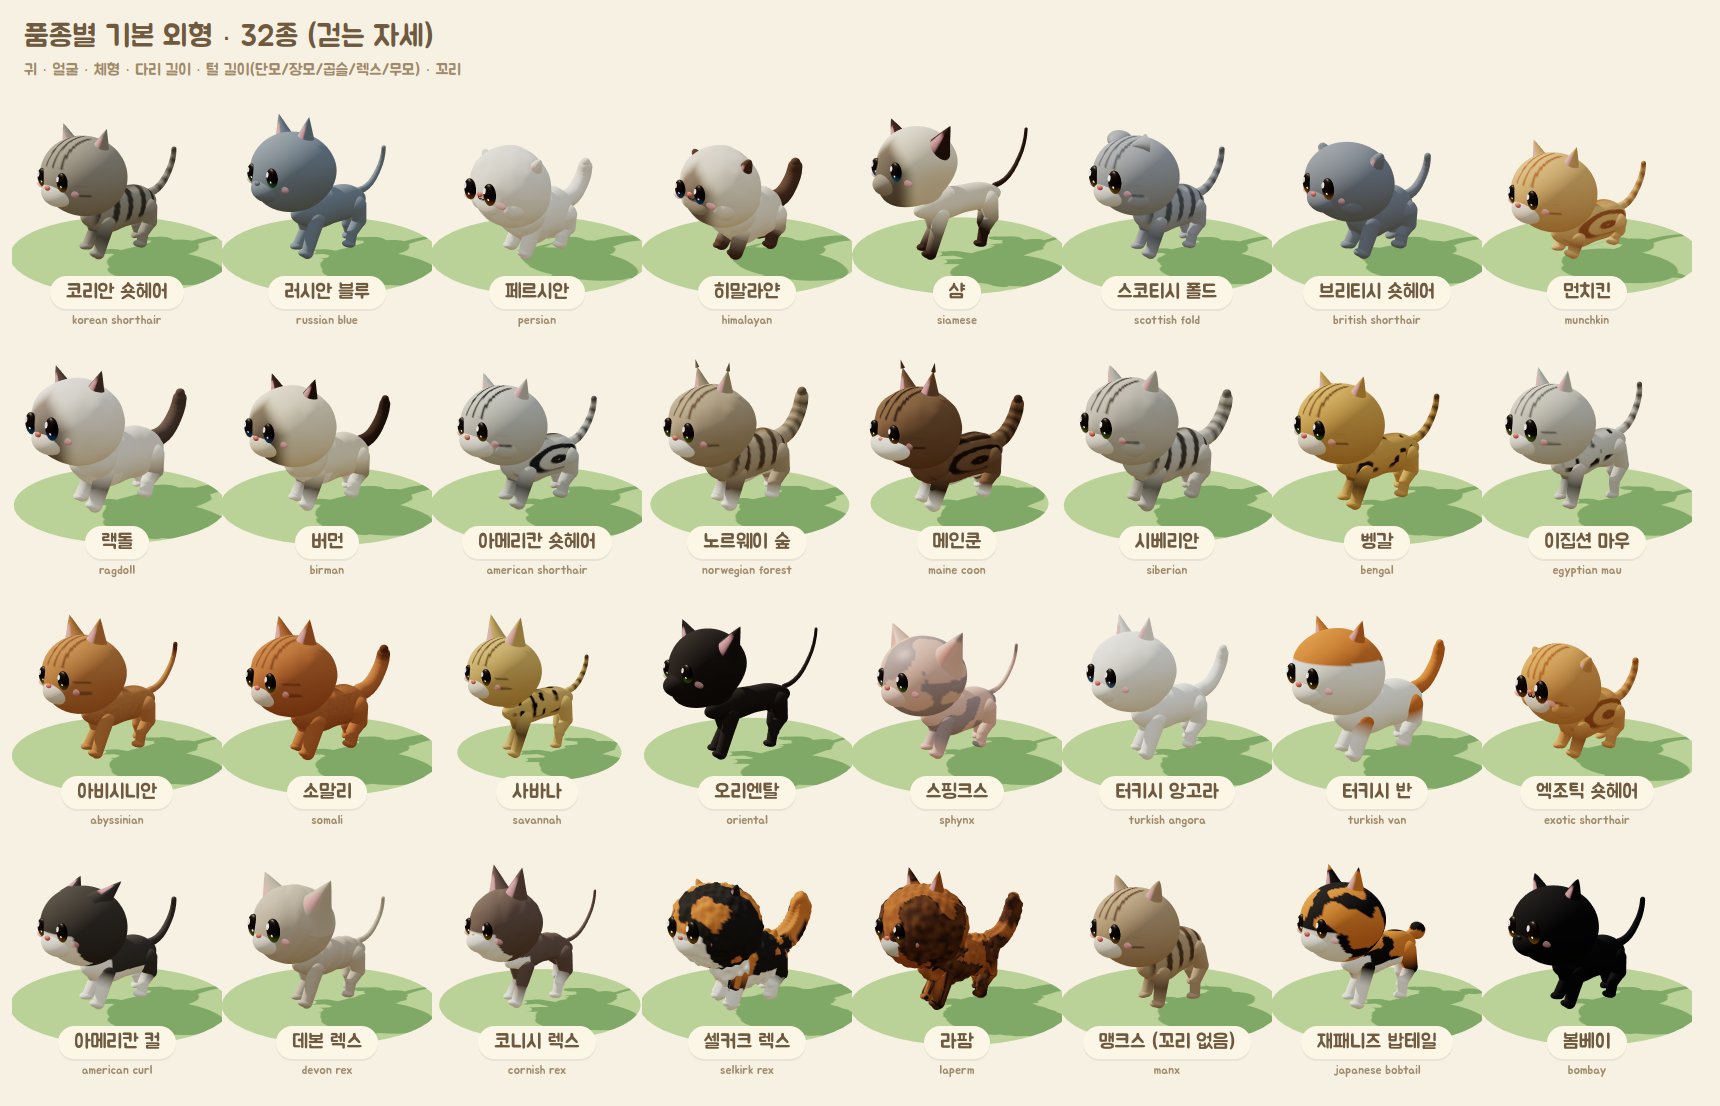
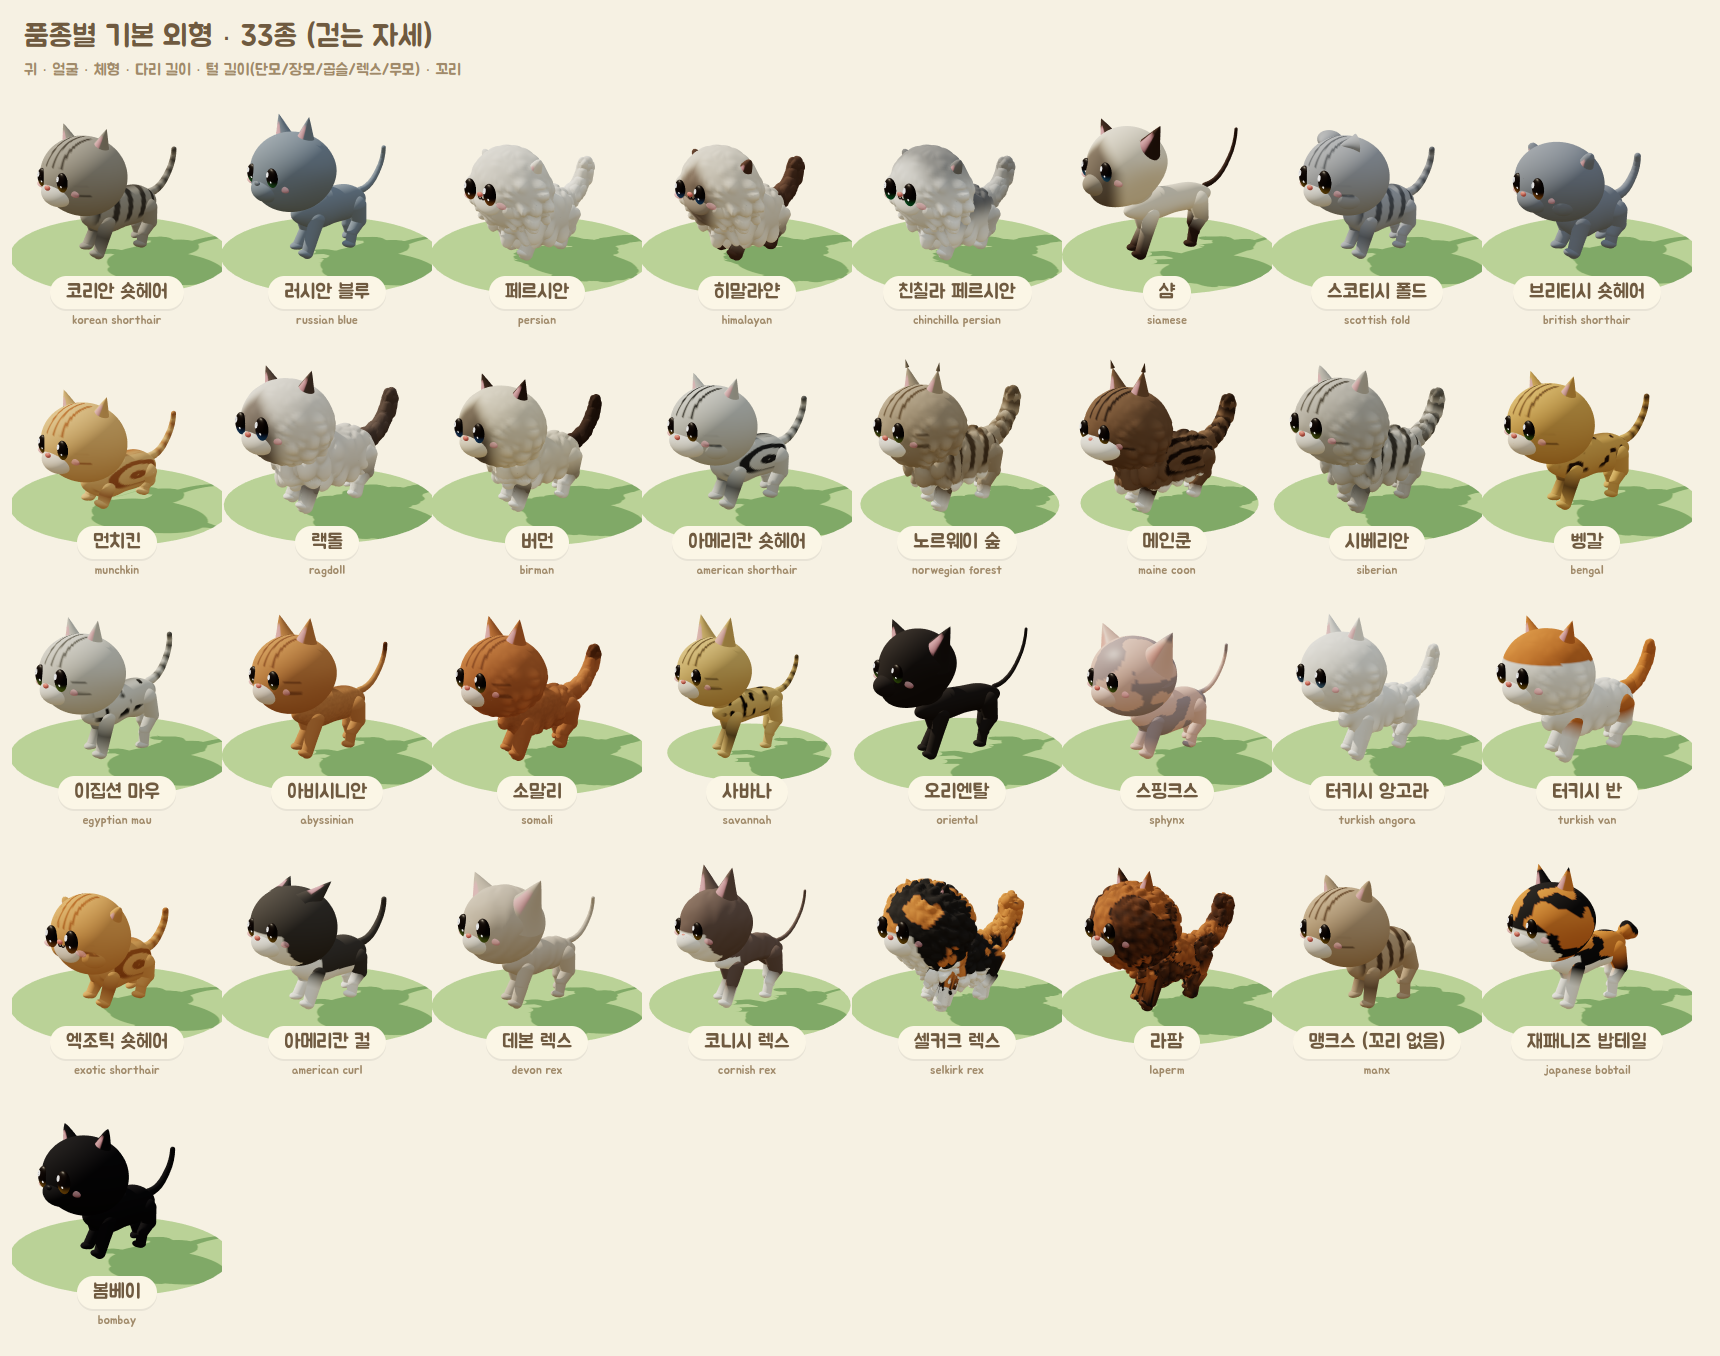
Cat catalog: visible long and curly fur, chinchilla Persian
Long fur is now built from cellular tufts (rounded cones, parted between
clumps, combed down) weighted per part: chest ruff, belly fringe, hind-leg
'trousers', tail, cheek/chin fluff via the new faceFluff (face stays clean).
Curly fur becomes round wool puffs. Tuft tips are shaded lighter and gaps
darker so clumps read at toy scale. Adds the 'shaded' coat and a chinchilla
Persian preset, and re-renders the doc images.

Claude-Session: https://claude.ai/code/session_015vjHDFNeuhZBMk9pB9WgeS

diff --git a/cat-island/prototype/3d/catgen.js b/cat-island/prototype/3d/catgen.js
@@ -23,6 +23,19 @@ function vnoise(x, y, z) {
     r += (a ? u : 1 - u) * (b ? v : 1 - v) * (c ? w : 1 - w) * hash(xi + a, yi + b, zi + c);
   return r;
 }
+// cellular noise: [F1, F2] = distances to the nearest and second-nearest jittered feature point.
+// F1 is 0 at a tuft centre; F2 - F1 is 0 on the crease between two tufts.
+function worley2(x, y, z) {
+  const xi = Math.floor(x), yi = Math.floor(y), zi = Math.floor(z);
+  let d = 9, d2 = 9;
+  for (let a = -1; a <= 1; a++) for (let b = -1; b <= 1; b++) for (let c = -1; c <= 1; c++) {
+    const cx = xi + a, cy = yi + b, cz = zi + c;
+    const fx = cx + hash(cx, cy, cz), fy = cy + hash(cy + 7, cz, cx), fz = cz + hash(cz + 13, cx, cy);
+    const q = (x - fx) ** 2 + (y - fy) ** 2 + (z - fz) ** 2;
+    if (q < d) { d2 = d; d = q; } else if (q < d2) d2 = q;
+  }
+  return [Math.sqrt(d), Math.sqrt(d2)];
+}
 const fbm = (x, y, z, k = 0) => .6 * vnoise(x + k, y, z) + .4 * vnoise(2 * x, 2 * y + k, 2 * z);
 const sstep = (a, b, x) => { const t = Math.min(1, Math.max(0, (x - a) / (b - a))); return t * t * (3 - 2 * t); };
 const C = h => new THREE.Color(h);
@@ -78,6 +91,16 @@ export function makeCoat(spec) {
       return base.clone().lerp(point, t);
     }
 
+    // shaded / chinchilla: white undercoat with dark tips, heaviest on the back, head top and tail
+    if (P === 'shaded') {
+      let t = 0;
+      if (part === 'body') t = .85 * sstep(-.3, .8, info.ny);
+      else if (part === 'head') t = .7 * sstep(-.2, .8, info.dir.y) * (1 - sstep(.4, .9, info.dir.z));
+      else if (part === 'tail') t = .45 + .2 * sstep(.6, 1, info.t);
+      else if (part === 'ear') t = .8;
+      else if (part === 'leg') t = .3 * (1 - info.t);
+      return white.clone().lerp(dark, t);
+    }
     if (isWhite(part, p, info)) return white.clone();
 
     if (P === 'cow') return fbm(p.x * 2.2 + 3, p.y * 2.2, p.z * 2.2, seed * 7) > .58 ? base.clone() : white.clone();
@@ -132,20 +155,41 @@ const MAT = new THREE.MeshStandardMaterial({ vertexColors: true, roughness: .9, 
 const MAT_SKIN = new THREE.MeshStandardMaterial({ vertexColors: true, roughness: .45, metalness: 0 });
 const MAT_GLOSS = new THREE.MeshStandardMaterial({ vertexColors: true, roughness: .35, metalness: 0 });
 
-function furify(geo, fur, k = 0) {
-  // fur: {type:'short'|'long'|'curly'|'rex'|'none', amount}
+// fur: {type:'short'|'long'|'curly'|'rex'|'none', amount}
+// opts.weight(v, n) -> 0..1   where long tufts / curls grow on this mesh (ruff, cheeks, belly, thigh backs ...)
+// opts.gravity               long tufts hang down a little (off for parts that rotate, like the tail)
+// Long and curly fur also store a per-vertex 'fluff' (0 gap .. 1 tuft tip) that the paint pass uses to
+// shade clumps: tips lighter, gaps darker, so the fur reads at toy scale.
+function furify(geo, fur, k = 0, opts = {}) {
   const pos = geo.attributes.position, v = new THREE.Vector3(), n = new THREE.Vector3();
+  const weight = opts.weight || (() => 1), gravity = opts.gravity ?? true;
+  const fq = opts.freq || 1, st = opts.stretch ?? 1.45;   // tuft size (higher = smaller) and vertical comb stretch
   geo.computeVertexNormals();
   const nor = geo.attributes.normal;
+  const tufted = fur.type === 'long' || fur.type === 'curly';
+  const fluff = tufted ? new Float32Array(pos.count) : null;
   for (let i = 0; i < pos.count; i++) {
     v.fromBufferAttribute(pos, i); n.fromBufferAttribute(nor, i);
     let off = 0;
-    if (fur.type === 'long') off = fur.amount * .06 * (fbm(v.x * 3.5 + k, v.y * 3.5, v.z * 3.5) - .3);
-    else if (fur.type === 'curly') off = fur.amount * (.035 + .05 * Math.pow(vnoise(v.x * 16 + k, v.y * 16, v.z * 16), 2) + .02 * Math.sin(v.x * 40) * Math.sin(v.z * 40));
+    if (fur.type === 'long') {
+      // pointed clumps; cells are stretched vertically so tufts look combed downwards
+      const [d, d2] = worley2(v.x * 4.6 * fq + k, v.y * 4.6 * fq / st, v.z * 4.6 * fq);
+      const t = sstep(.85, .05, d) * sstep(0, .22, d2 - d), wgt = weight(v, n);   // soft cone, parted between clumps
+      off = fur.amount * wgt * (.03 + .08 * t);
+      fluff[i] = .25 + .75 * t * Math.min(1, wgt * 1.4);
+      if (gravity) v.y -= fur.amount * wgt * .04 * t * sstep(.4, -.6, n.y);
+    } else if (fur.type === 'curly') {
+      // round puffs (AC sheep wool): sqrt profile gives a cauliflower outline
+      const [d, d2] = worley2(v.x * 7 + k, v.y * 7, v.z * 7);
+      const t = Math.sqrt(Math.max(0, 1 - d * d / .75)) * sstep(0, .3, d2 - d), wgt = weight(v, n);
+      off = fur.amount * wgt * (.035 + .085 * t);
+      fluff[i] = .35 + .65 * t;
+    }
     else if (fur.type === 'rex') off = fur.amount * .008 * Math.sin(v.z * 30 + v.y * 14 + 6 * vnoise(v.x * 5 + k, v.y * 5, v.z * 5)) * (.4 + .6 * vnoise(v.x * 9, v.y * 9 + k, v.z * 9));   // soft broken waves, not rings
     v.addScaledVector(n, off);
     pos.setXYZ(i, v.x, v.y, v.z);
   }
+  if (fluff) geo.setAttribute('fluff', new THREE.BufferAttribute(fluff, 1));
   geo.computeVertexNormals();
   return geo;
 }
@@ -177,6 +221,7 @@ export const SHAPE_DEFAULT = {
   eyeSize: 1, eyeShape: 'round',
   bodyLen: 1, bodyBulk: 1, legLen: 1, legBulk: 1,
   fur: 'short', furAmount: 1, ruff: 0,
+  faceFluff: .55,    // long fur on the cheeks/chin: Persian types 1.2, semi-longhairs (Maine Coon ...) keep a short face
   tail: 'normal', tailLen: 1, tailFluff: 0, tailThick: 1,
   wrinkles: 0,
   // silhouette shaping
@@ -216,7 +261,7 @@ export function buildCat(shapeIn, coatSpec) {
 
   const body = new THREE.Group(); body.position.y = bodyY; root.add(body); rig.body = body;
   rig.pitch = Math.atan2(hindExtra, .96 * BL);           // rump-high breeds lean forward
-  const fluffy = s.fur === 'long' ? 1.08 : s.fur === 'curly' ? 1.05 : 1;
+  const fluffy = s.fur === 'long' ? 1.06 + .08 * s.furAmount : s.fur === 'curly' ? 1.08 : 1;
   const bodyNorm = p => ({ nx: p.x / (.32 * B), ny: (p.y - bodyY) / (.34 * B), nz: p.z / (.9 * BL) });
 
   // torso: one smooth lofted shape - deep chest, slight waist, round hips (no segment seams)
@@ -237,12 +282,14 @@ export function buildCat(shapeIn, coatSpec) {
       pos.setXYZ(i, xx, yy, z * .9 * BL);
     }
     g.computeVertexNormals();
-    if (!hairless) furify(g, fur, 1);
+    // long fur: light on the back, heavy on the chest and belly fringe
+    const wBody = (v, n) => .45 + .55 * sstep(.1, -.7, n.y) + .35 * sstep(.2, .8, v.z / (.9 * BL));
+    if (!hairless) furify(g, fur, 1, { weight: wBody });
     body.add(mk(g, 'body', 'bodyNorm', bodyMat));
   }
   if (s.ruff) {
-    const g = ellipsoid(1, .38 * B, .34, .3, 64); g.translate(0, .12, .58 * BL);
-    furify(g, { type: 'long', amount: 1.6 * s.ruff }, 9);
+    const g = ellipsoid(1, .4 * B * fluffy, .36, .3, 96); g.translate(0, .1, .6 * BL);
+    furify(g, { type: 'long', amount: 1.5 * s.ruff }, 9, { weight: (v, n) => .55 + .45 * sstep(-.2, .8, n.z) });
     body.add(mk(g, 'body', 'bodyNorm'));
   }
 
@@ -263,7 +310,9 @@ export function buildCat(shapeIn, coatSpec) {
       const j = new THREE.Group(); parent.add(j);
       const g = capsuleY(r0 * thick, r1 * thick, len);
       const t0 = acc / total, t1 = (acc + len) / total;
-      if (!hairless) furify(g, { ...fur, amount: fur.amount * .5 }, side + acc);
+      const pants = kind === 'hind' && acc === 0;
+      if (!hairless) furify(g, { ...fur, amount: fur.amount * (s.fur === 'curly' ? .7 : .5) }, side + acc,
+        { weight: pants ? (v, n) => .4 + 1.2 * sstep(.1, -.8, n.z) * sstep(-len, -len * .2, v.y) : () => .55 });
       j.add(mk(g, 'leg', { kind, t0, t1, len }, bodyMat));
       chain.push(j);
       const next = new THREE.Group(); next.position.y = -len; j.add(next);
@@ -288,7 +337,8 @@ export function buildCat(shapeIn, coatSpec) {
       const r0 = rad(i / tailN) * s.tailThick, r1 = rad((i + 1) / tailN) * s.tailThick;
       const g = capsuleY(r0, r1, segLen, 24);
       g.rotateX(Math.PI);                    // grow backwards/upwards along +y of the joint
-      if (s.fur === 'curly') furify(g, { type: 'curly', amount: 1 }, 0);
+      if (s.fur === 'curly') furify(g, { type: 'curly', amount: .9 }, i * 3);
+      else if (s.fur === 'long') furify(g, { type: 'long', amount: .45 * s.furAmount }, i * 3, { gravity: false, freq: 1.3 });
       j.add(mk(g, 'tail', { t0: i / tailN, t1: (i + 1) / tailN, len: segLen }, bodyMat));
       const next = new THREE.Group(); next.position.y = segLen; j.add(next);
       rig.tail.push(j); parent = next;
@@ -303,7 +353,7 @@ export function buildCat(shapeIn, coatSpec) {
   const neck = new THREE.Group(); neck.position.set(0, .2, .62 * BL); body.add(neck); rig.neck = neck;
   {
     const g = ellipsoid(1, .25 * B * fluffy * (1 - (s.neckLen - 1) * .3), .27 * B * fluffy * s.neckLen, .28, 64); g.translate(0, .1 * s.neckLen, .06);
-    if (!hairless) furify(g, fur, 5);
+    if (!hairless) furify(g, fur, 5, { weight: (v, n) => .5 + .5 * sstep(0, .8, n.z) });
     neck.add(mk(g, 'body', 'bodyNorm', bodyMat));
   }
   const head = new THREE.Group(); head.position.set(0, .26 * s.headSize + (s.neckLen - 1) * .3, .16 * s.headSize + (s.neckLen - 1) * .12); neck.add(head); rig.head = head;
@@ -327,7 +377,13 @@ export function buildCat(shapeIn, coatSpec) {
       }
       g.computeVertexNormals();
     }
-    if (!hairless) furify(g, { ...fur, amount: fur.amount * .7 }, 11);
+    // long: lion-like cheek and chin fluff, the face itself stays clean (AC faces are smooth)
+    // curly: puffs everywhere except the front of the face
+    const wHead = s.fur === 'curly'
+      ? (v, n) => 1 - .8 * sstep(.25, .8, n.z)
+      : (v, n) => .15 + 1.5 * sstep(.25, .8, Math.abs(n.x)) * sstep(.6, -.3, n.y) * (1 - .75 * sstep(.45, .9, n.z)) + .6 * sstep(-.3, -.9, n.y);
+    // head tufts point sideways (no drop, no vertical comb), otherwise they hang like mop strands
+    if (!hairless) furify(g, { ...fur, amount: fur.amount * (s.fur === 'long' ? s.faceFluff * .8 : .8) }, 11, { weight: wHead, gravity: false, stretch: 1, freq: 1.25 });
     head.add(mk(g, 'head', 'headDir', bodyMat));
     if (s.cheek) for (const x of [-1, 1]) {
       const c = ellipsoid(HS * .38, 1, .8, .85, 48); c.translate(x * HS * .5 * s.headW, -HS * .3, HS * (.36 - .06 * s.faceFlat));   // cheeks follow the flattened face
@@ -410,6 +466,7 @@ export function buildCat(shapeIn, coatSpec) {
     if (!o.isMesh || !o.userData.part) return;
     const part = o.userData.part === 'tuft' ? 'ear' : o.userData.part;
     const pos = o.geometry.attributes.position, col = new Float32Array(pos.count * 3);
+    const fl = o.geometry.attributes.fluff;
     const m = new THREE.Matrix4().multiplyMatrices(inv, o.matrixWorld);
     const mh = new THREE.Matrix4().multiplyMatrices(headInv, o.matrixWorld);
     for (let i = 0; i < pos.count; i++) {
@@ -436,6 +493,7 @@ export function buildCat(shapeIn, coatSpec) {
         }
         c = colorAt(part, p, info);
       }
+      if (fl) c.multiplyScalar(.8 + .3 * fl.getX(i));   // tuft tips lighter, gaps between clumps darker
       col.set([c.r, c.g, c.b], i * 3);
     }
     o.geometry.setAttribute('color', new THREE.BufferAttribute(col, 3));
@@ -495,8 +553,9 @@ const SH = (o) => o;
 export const BREEDS = [
   { id: 'korean_shorthair', ko: '코리안 숏헤어', shape: { earSet: 'mid' }, coat: { pattern: 'mackerel', base: '#a39d93', dark: '#57514a' } },
   { id: 'russian_blue', ko: '러시안 블루', shape: { eyeShape: 'almond', earSize: 1.12, bodyBulk: .92, legLen: 1.08, wedge: .35, earSet: 'high', neckLen: 1.1, tailThick: .85 }, coat: { pattern: 'solid', base: '#8794a3', eye: '#5fae6a', lightMuzzle: false, nose: '#7d8794' } },
-  { id: 'persian', ko: '페르시안', shape: { faceFlat: 1, ear: 'small', fur: 'long', ruff: 1, tailFluff: 1, cheek: 1, eyeSize: 1.15, legLen: .78, bodyBulk: 1.15, earSet: 'low', earRound: .8, bodyLen: .82, neckLen: .75, tailThick: 1.2, tailLen: .85 }, coat: { pattern: 'solid', base: '#f4efe6', eye: '#d7902f' } },
-  { id: 'himalayan', ko: '히말라얀', shape: { faceFlat: 1, ear: 'small', fur: 'long', ruff: 1, tailFluff: 1, cheek: 1, legLen: .78, bodyBulk: 1.15, earSet: 'low', earRound: .8, bodyLen: .82, neckLen: .75, tailThick: 1.2, tailLen: .85 }, coat: { pattern: 'point', base: '#f2e8d8', point: '#6b4f40', eye: '#4f8fd8' } },
+  { id: 'persian', ko: '페르시안', shape: { faceFlat: 1, ear: 'small', fur: 'long', ruff: 1, tailFluff: 1, cheek: 1, eyeSize: 1.15, legLen: .78, bodyBulk: 1.15, earSet: 'low', earRound: .8, bodyLen: .82, neckLen: .75, tailThick: 1.2, tailLen: .85 , faceFluff: 1.2 }, coat: { pattern: 'solid', base: '#f4efe6', eye: '#d7902f' } },
+  { id: 'himalayan', ko: '히말라얀', shape: { faceFlat: 1, ear: 'small', fur: 'long', ruff: 1, tailFluff: 1, cheek: 1, legLen: .78, bodyBulk: 1.15, earSet: 'low', earRound: .8, bodyLen: .82, neckLen: .75, tailThick: 1.2, tailLen: .85 , faceFluff: 1.2 }, coat: { pattern: 'point', base: '#f2e8d8', point: '#6b4f40', eye: '#4f8fd8' } },
+  { id: 'chinchilla_persian', ko: '친칠라 페르시안', shape: { faceFlat: 1, ear: 'small', fur: 'long', ruff: 1.1, tailFluff: 1.1, cheek: 1, eyeSize: 1.18, legLen: .78, bodyBulk: 1.12, earSet: 'low', earRound: .8, bodyLen: .82, neckLen: .75, tailThick: 1.2, tailLen: .85, faceFluff: 1.2 }, coat: { pattern: 'shaded', base: '#f7f5f0', white: '#f8f6f2', dark: '#55565e', eye: '#3fae6a', nose: '#e0857f' } },
   { id: 'siamese', ko: '샴', shape: { ear: 'large', earSize: 1.2, eyeShape: 'almond', bodyBulk: .78, legLen: 1.25, headW: .95, muzzleLen: 1.2, tailLen: 1.35, wedge: 1, earSet: 'low', earWide: 1.05, bodyLen: 1.2, tailThick: .65, neckLen: 1.2, tuck: .4 }, coat: { pattern: 'point', base: '#f1e6d2', point: '#4f3a30', eye: '#5aa6e0' } },
   { id: 'scottish_fold', ko: '스코티시 폴드', shape: { ear: 'fold', eyeSize: 1.2, cheek: .6, bodyBulk: 1.05, earRound: .5, bodyLen: .92, tailThick: 1.1 }, coat: { pattern: 'mackerel', base: '#a9adb6', dark: '#686c74' } },
   { id: 'british_shorthair', ko: '브리티시 숏헤어', shape: { cheek: 1, ear: 'small', bodyBulk: 1.15, headW: 1.18, eyeSize: 1.12, legBulk: 1.15, earRound: 1, earSet: 'low', bodyLen: .85, legLen: .9, neckLen: .8, tailThick: 1.3, tailLen: .9, chest: 1.15 }, coat: { pattern: 'solid', base: '#8a92a0', eye: '#e19a2b', lightMuzzle: false } },

diff --git a/cat-island/docs/CAT_CATALOG.md b/cat-island/docs/CAT_CATALOG.md
@@ -11,11 +11,11 @@
 - 체형: 귀 모양, 얼굴, 털 길이, 다리 길이
 - 털: 바탕색, 무늬색, 무늬 종류, 흰 털 비율, 눈 색
 
-![품종 프리셋 32종](images/breeds_3d.png)
+![품종 프리셋 33종](images/breeds_3d.png)
 ![털 무늬 프리셋](images/coats_3d.png)
 ![걷기 동작](images/walk_cycle.png)
 ![얼굴 클로즈업](images/hero_cats.png)
-![정면 얼굴 32종](images/faces_front.png)
+![정면 얼굴 33종](images/faces_front.png)
 ![실루엣 점검 (측면·정면)](images/silhouettes.png)
 
 **얼굴 원칙 (동물의 숲 스타일):**
@@ -46,10 +46,10 @@ root
   - 다리 스윙, 발 들기, 몸통 흔들림, 목 끄덕임, 꼬리 흔들기를 계산한다.
 - 이 계층은 Unity Transform 리그로 1:1 옮길 수 있다. 같은 계산식을 Animator 또는 코드 애니메이션으로 사용한다.
 
-## 1. 품종 목록 (32종)
+## 1. 품종 목록 (33종)
 
 **일반 품종**
-코리안 숏헤어, 러시안 블루, 페르시안, 히말라얀, 샴, 스코티시 폴드, 브리티시 숏헤어, 랙돌, 버먼, 아메리칸 숏헤어, 노르웨이 숲, 메인쿤, 시베리안, 벵갈, 이집션 마우, 아비시니안, 소말리, 오리엔탈, 터키시 앙고라, 터키시 반, 엑조틱 숏헤어, 봄베이
+코리안 숏헤어, 러시안 블루, 페르시안, 히말라얀, 친칠라 페르시안, 샴, 스코티시 폴드, 브리티시 숏헤어, 랙돌, 버먼, 아메리칸 숏헤어, 노르웨이 숲, 메인쿤, 시베리안, 벵갈, 이집션 마우, 아비시니안, 소말리, 오리엔탈, 터키시 앙고라, 터키시 반, 엑조틱 숏헤어, 봄베이
 
 **특수 외형 품종**
 - 짧은 다리: 먼치킨
@@ -85,6 +85,7 @@ root
 | `muzzleLen` | 주둥이 길이 | 샴·오리엔탈은 길게 |
 | `fur` | 털 종류 | `short` / `long` 장모 / `curly` 곱슬(셀커크 렉스, 라팜) / `rex` 짧은 웨이브(데본, 코니시) / `none` 무모(스핑크스) |
 | `furAmount` / `ruff` | 털 양, 목 갈기 | 장모종 |
+| `faceFluff` | 볼·턱 털 양 | 페르시안 계열 1.2, 메인쿤 같은 반장모는 기본 .55 (얼굴은 짧은 털) |
 | `tail` / `tailLen` / `tailFluff` | 꼬리 | `normal` / `bob` 방울 꼬리(재패니즈 밥테일) / `none` 꼬리 없음(맹크스) |
 | `wrinkles` | 이마 주름 | 스핑크스 |
 
@@ -114,6 +115,21 @@ root
 - `rumpHigh`는 몸통을 앞으로 기울이고, 목이 그만큼 반대로 돌아가서 머리 높이는 유지된다.
 - 납작한 얼굴(`faceFlat`)은 얼굴 앞면만 살짝 눌러서 볼과 주둥이가 함께 따라 들어가게 했다. 혹처럼 튀어나오지 않는다.
 
+### 2-2. 장모 · 곱슬 표현
+
+![단모 · 페르시안 · 친칠라 · 셀커크 렉스 · 메인쿤](images/longhair_3d.png)
+
+처음 버전의 장모는 표면을 살짝 울퉁불퉁하게 만든 정도였다. 그래서 장난감 크기에서는 단모와 거의 같아 보였다.
+지금은 털을 **덩어리(뭉치)** 단위로 만든다(셀룰러 노이즈).
+
+- **장모 (`long`):** 끝이 둥근 원뿔형 털 뭉치가 아래로 살짝 처진다. 뭉치 사이에는 가르마 같은 골을 넣는다.
+  - 많이 나는 곳: 가슴 갈기, 배 아래 술, 뒷다리 뒤쪽 바지털, 꼬리.
+  - 등은 털이 적다.
+  - 얼굴은 동물의 숲처럼 매끈하게 두고, 볼과 턱에만 옆으로 뻗는 털을 둔다(`faceFluff`).
+- **곱슬 (`curly`):** 동물의 숲 양 주민의 털처럼 둥근 뭉게구름 모양 뭉치. 얼굴 앞쪽만 비운다.
+- **뭉치 음영:** 털 끝은 밝게, 뭉치 사이 골은 어둡게 칠한다. 작게 보여도 털 덩어리가 읽힌다.
+- **몸 부피:** 장모는 6~14%, 곱슬은 8% 키운다.
+
 ## 3. 털 파라미터 (`makeCoat`)
 
 | 무늬 `pattern` | 국내 호칭 | 사용 색 |
@@ -130,6 +146,7 @@ root
 | `tortie` | 카오스 | `base`, `second` (흰색 없음) |
 | `point` | 포인트 (샴) | `base` 몸, `point` 얼굴·귀·발·꼬리 |
 | `mitted` | 미티드 (랙돌) | 포인트 + 흰 발과 가슴 |
+| `shaded` | 친칠라 / 셰이디드 | 흰 속털 + `dark` 털끝 (등·머리 위·꼬리에 진하게) |
 
 공통 옵션도 있다.
 - `whiteLevel`: 흰 털 비율 0~1

diff --git a/cat-island/README.md b/cat-island/README.md
@@ -7,7 +7,7 @@
 - `prototype/3d/`: three.js로 만든 3D 외형 프로토타입
   - 파라미터 방식 고양이 생성기
   - 네 발 보행 리그(걷기 동작 포함)
-  - 품종 32종과 털 무늬 12종 카탈로그
+  - 품종 33종과 털 무늬 12종 카탈로그
   - 마을 그래픽 시안
   - 사진 → 고양이 변환 (`photo.html`, `photo2cat.js`)
 
